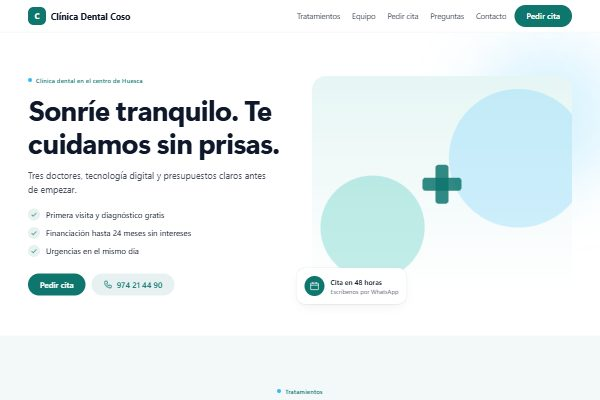
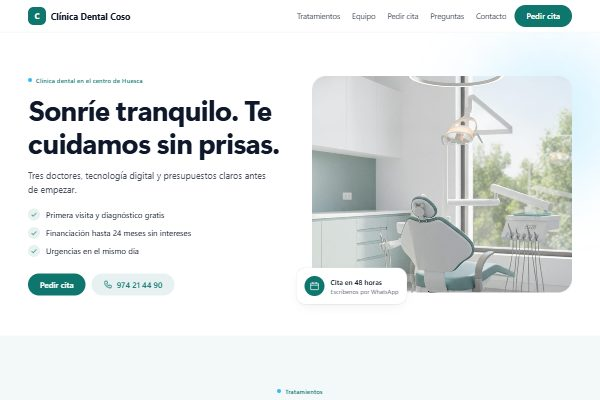
Fotos generadas con IA y previews nuevas (v1.1.0)

Changed region(s): [[0.51, 0.18, 0.96, 0.75]]

diff --git a/CLAUDE.md b/CLAUDE.md
@@ -41,3 +41,5 @@ Antes de dar una orden por buena: `npm run build` sin errores.
 - `hero.items`: garantías con check (solo `titulo`). `hero.destacado` {titulo, texto}: tarjeta flotante sobre la foto.
 - `citas.items`: pasos numerados; `citas.cta.texto`: texto del botón de WhatsApp (usa `contacto.whatsapp`).
 - `contacto.imagen`: plano que enlaza a mapas.
+
+Fotos de partida en public/fotos/ (generadas con IA, sin derechos de terceros); los SVG de public/placeholders/ siguen de respaldo.
